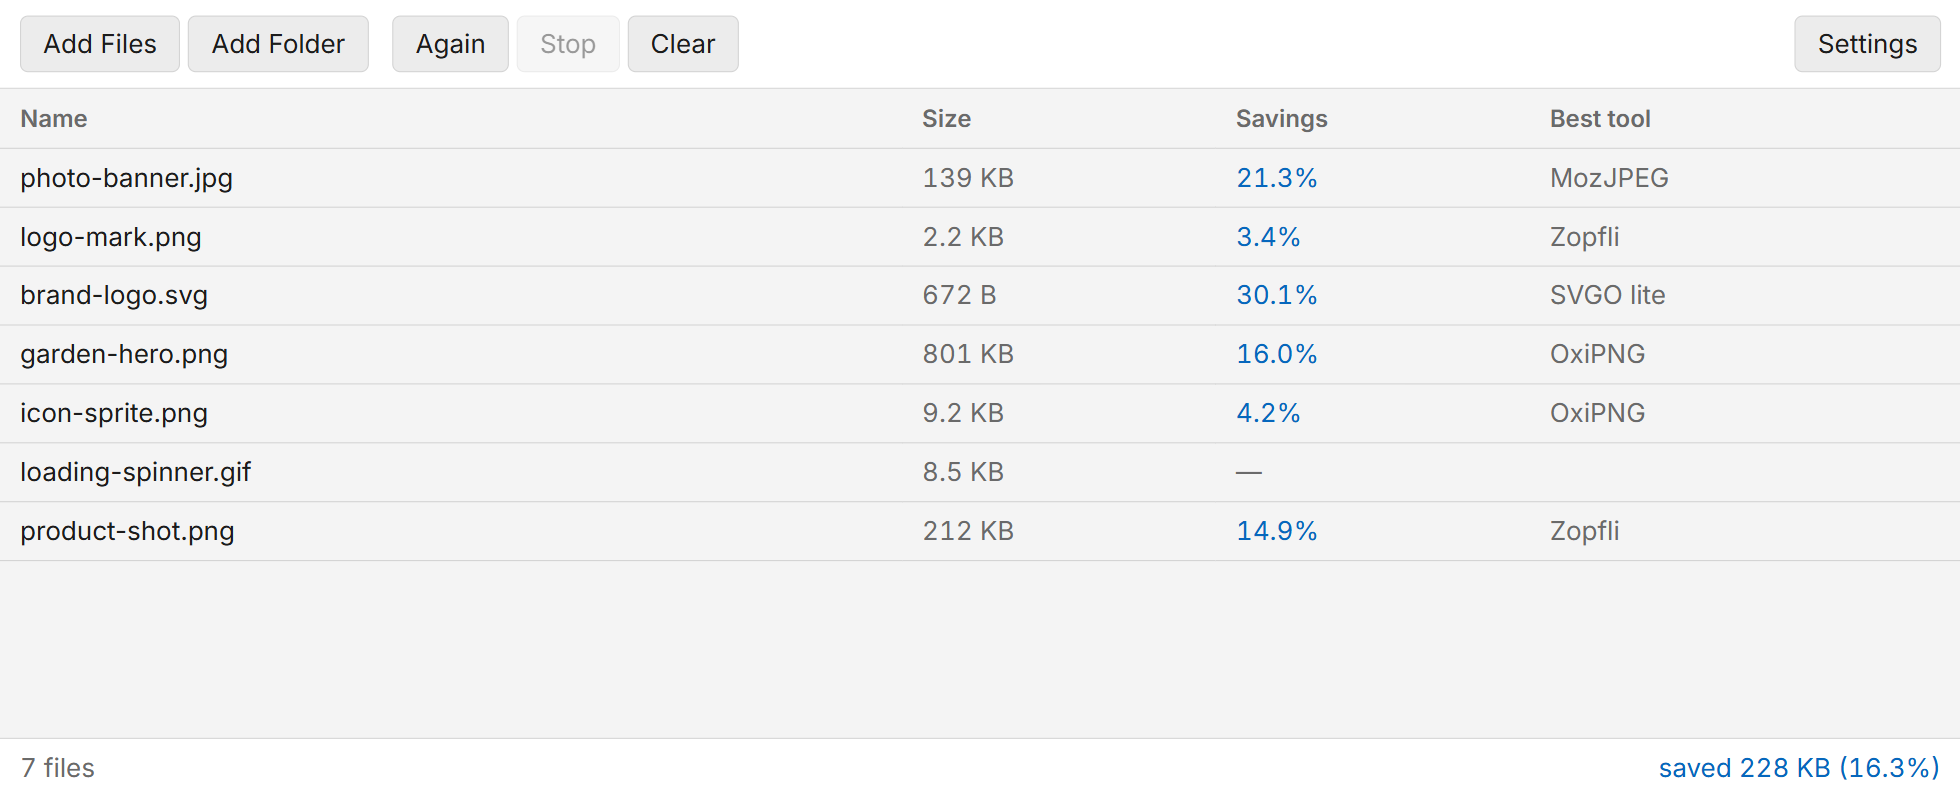
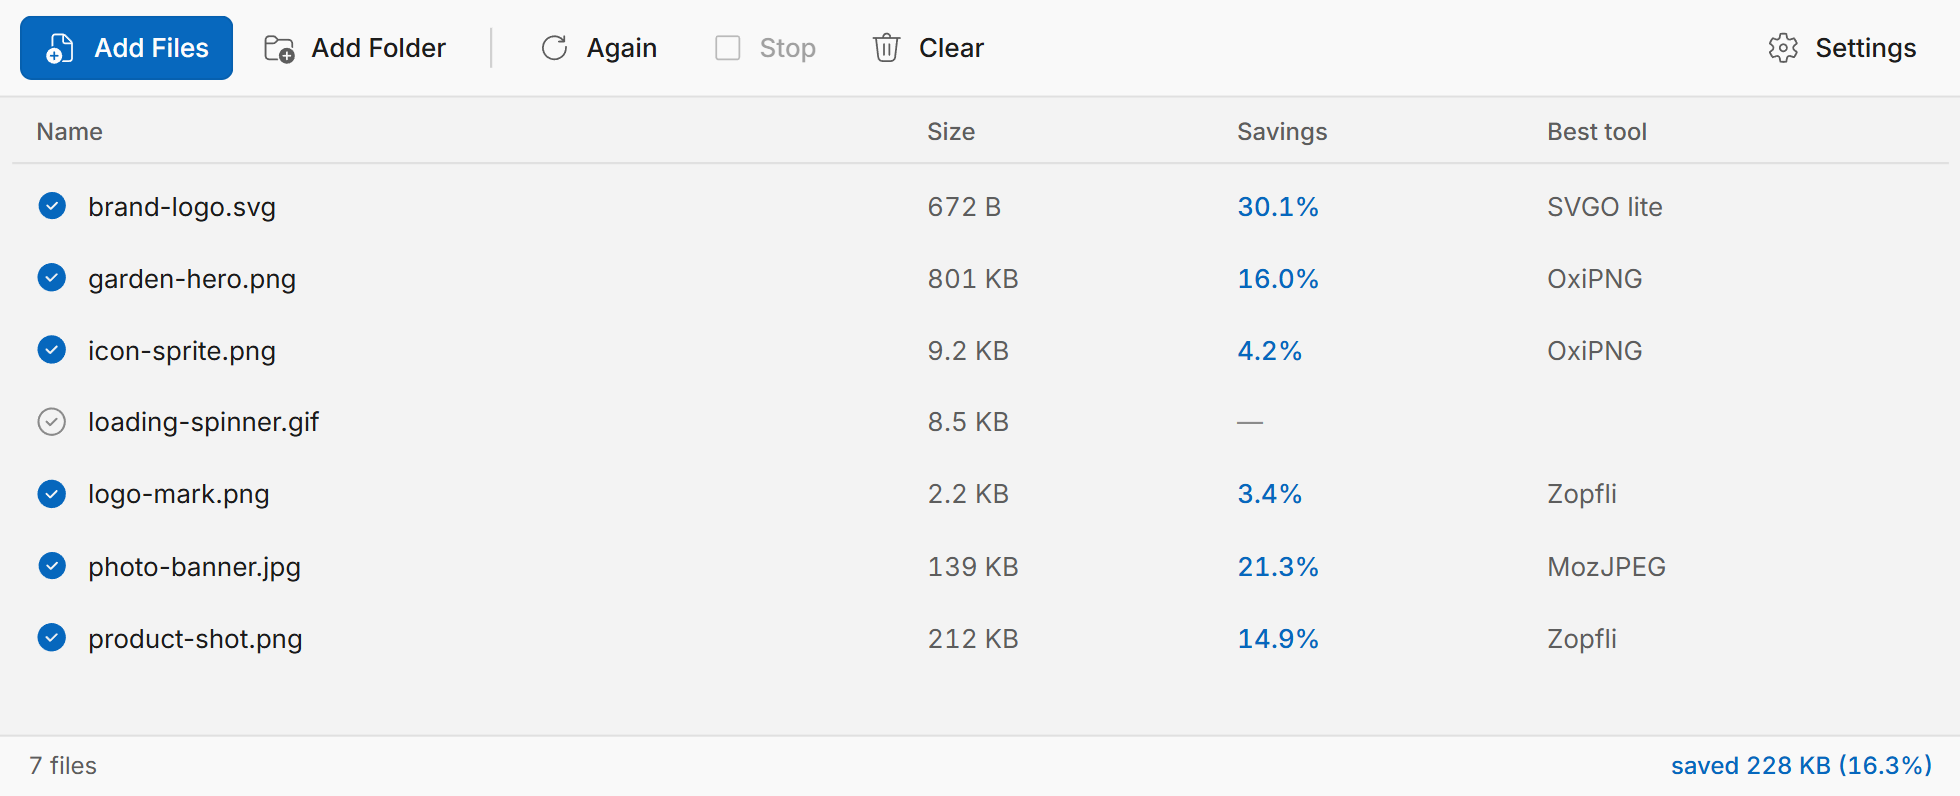
Retake the README screenshots for the new design

diff --git a/README.md b/README.md
@@ -17,20 +17,24 @@ result of every applicable optimizer is kept.
 
 ![The file list after a run, showing per-file savings and which optimizer won](docs/screenshots/results-light.png)
 
-Light and dark follow the system setting.
+Light and dark follow the system setting, or can be fixed under Settings →
+Appearance.
 
 ![The same list in dark mode](docs/screenshots/results-dark.png)
 
-Settings turns individual optimizers on and off, controls lossy quality per
-format, sets the accent colour, and lists which optimizers are actually
-installed.
+Settings has three tabs. **Optimizers** switches each optimizer on and off
+and shows which are installed; **Options** has lossy quality per format,
+metadata stripping and how hard to work.
 
-![The settings panel, showing the optimizer list and quality sliders](docs/screenshots/settings-dark.png)
+![The settings panel on its Optimizers tab](docs/screenshots/settings-dark.png)
 
-The accent colour is a hue and a saturation slider under Appearance; every
-shade in the window follows it, here set to purple.
+**Appearance** picks the theme and the accent colour, a hue and a saturation
+slider that every shade in the window follows, here set to purple.
 
-![The settings panel scrolled to Appearance, with a purple accent](docs/screenshots/settings-appearance-light.png)
+![The settings panel on its Appearance tab, with a purple accent](docs/screenshots/settings-appearance-light.png)
+
+The window adapts as it narrows: the toolbar keeps its icons, the list drops
+the less important columns, and settings slide over the list.
 
 ### Download
 
@@ -64,7 +68,7 @@ with MinGW-w64 under MSYS2, and `win/` packages the app around them. See
 plans and the Zopfli size threshold were derived.
 
 The screenshots above were taken on Windows 11 from a real run, and were
-themselves optimized by this build: 38.0% smaller, Zopfli winning all four.
+themselves optimized by this build: 37.2% smaller, Zopfli winning all four.
 
 ---
 
